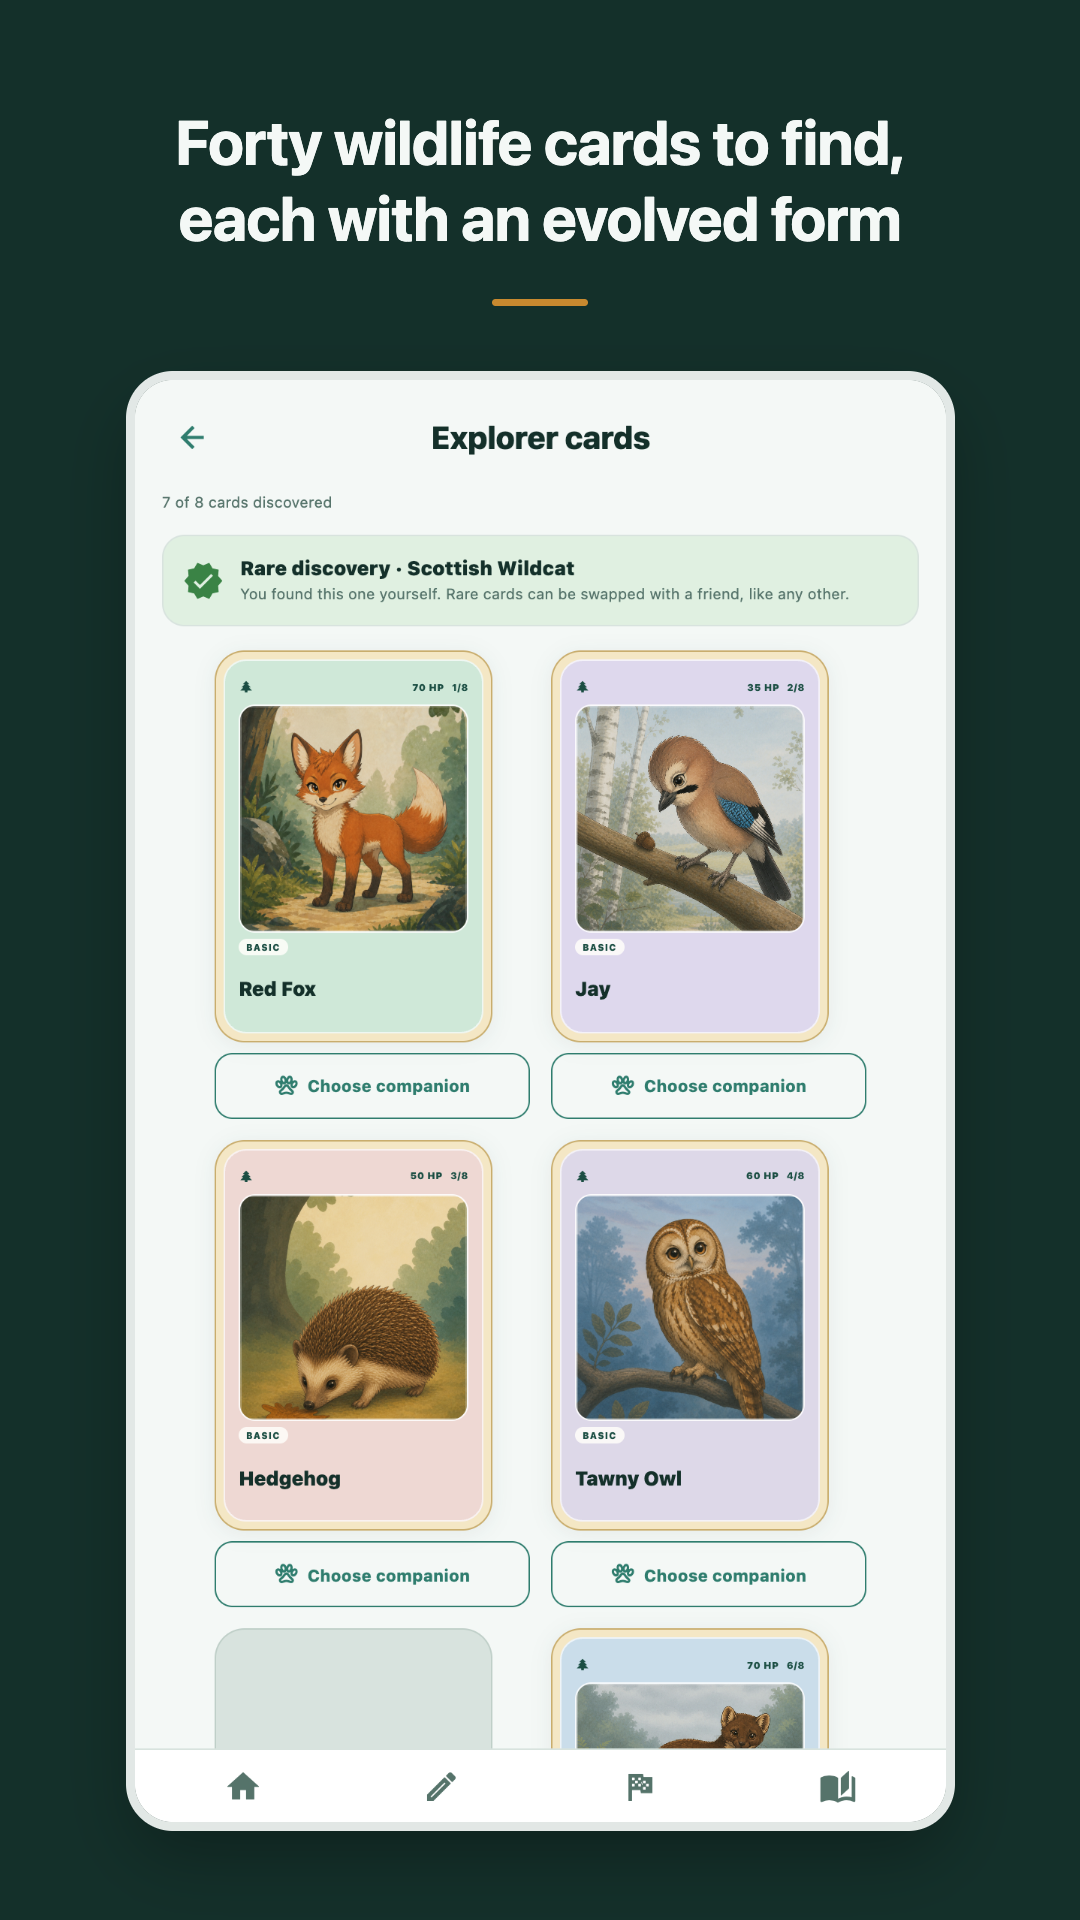
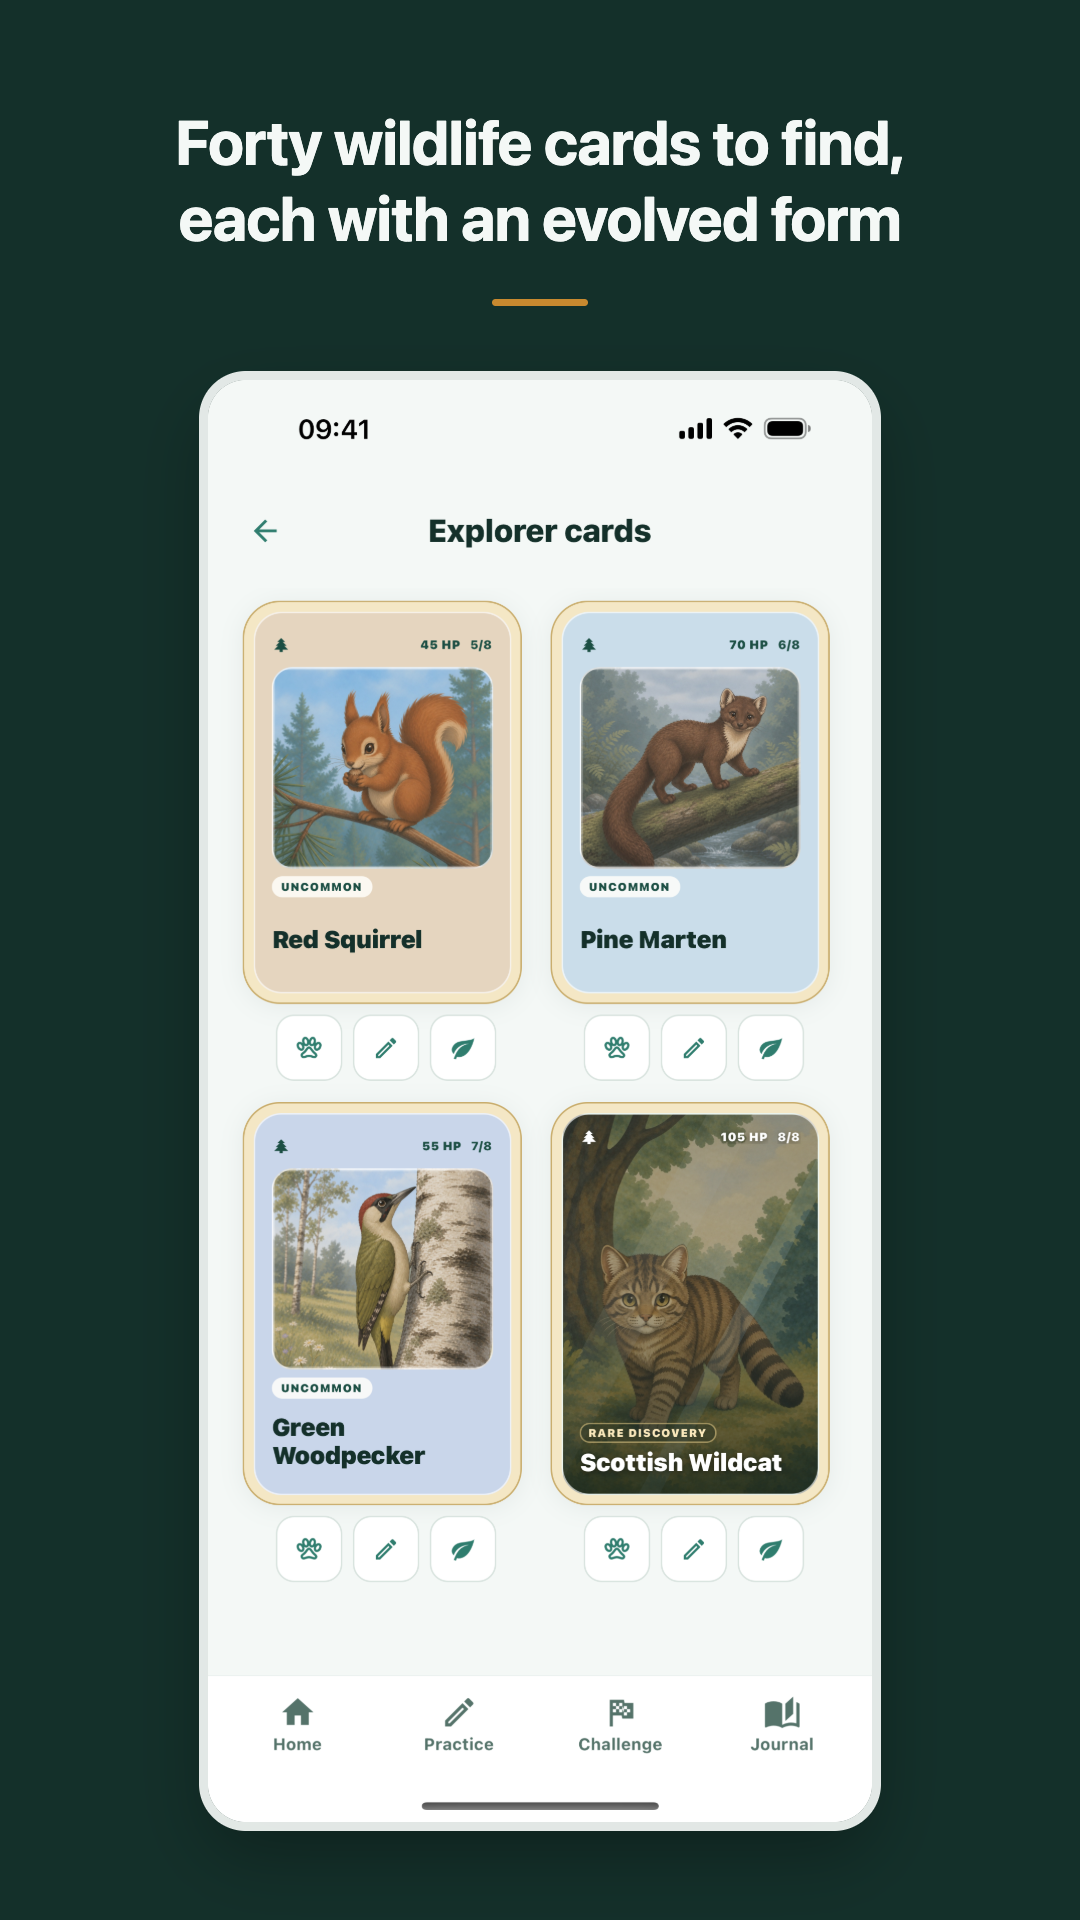
Update marketing screenshots for the approved 1.0.1 release
Same update as sagito-redirect, kept in sync per AGENTS.md's note that
this repo (serving info.sagito.app) and sagito-redirect (serving
www.sagito.app) are a deliberate duplicate until phase 2, so a copy edit
lands in both.

Replaces the 7 September set (old code-drawn tent, old rectangular
subject cards) with images composited from the App Store screenshots
already submitted and approved for 1.0.1: the redrawn layered avatars,
the illustrated day campsite, repainted camp items and Red Fox as the
travelling companion.

2-cards.png's alt text named four specific animals that no longer match
what the new image shows (Red Fox/Jay/Hedgehog/Tawny Owl -> Red
Squirrel/Pine Marten/Green Woodpecker/Scottish Wildcat); corrected.

diff --git a/index.html b/index.html
@@ -103,7 +103,7 @@
       </figure>
       <figure>
         <a href="/images/2-cards.png" aria-label="View the wildlife cards to discover and swap screenshot at full size">
-          <img src="/images/2-cards.png" width="1080" height="1920" alt="Sagito’s illustrated Red Fox, Jay, Hedgehog and Tawny Owl cards, with options to choose a companion." decoding="async">
+          <img src="/images/2-cards.png" width="1080" height="1920" alt="Sagito’s illustrated Red Squirrel, Pine Marten, Green Woodpecker and Scottish Wildcat cards, with options to choose a companion." decoding="async">
         </a>
         <figcaption>Wildlife cards to discover and swap</figcaption>
       </figure>
